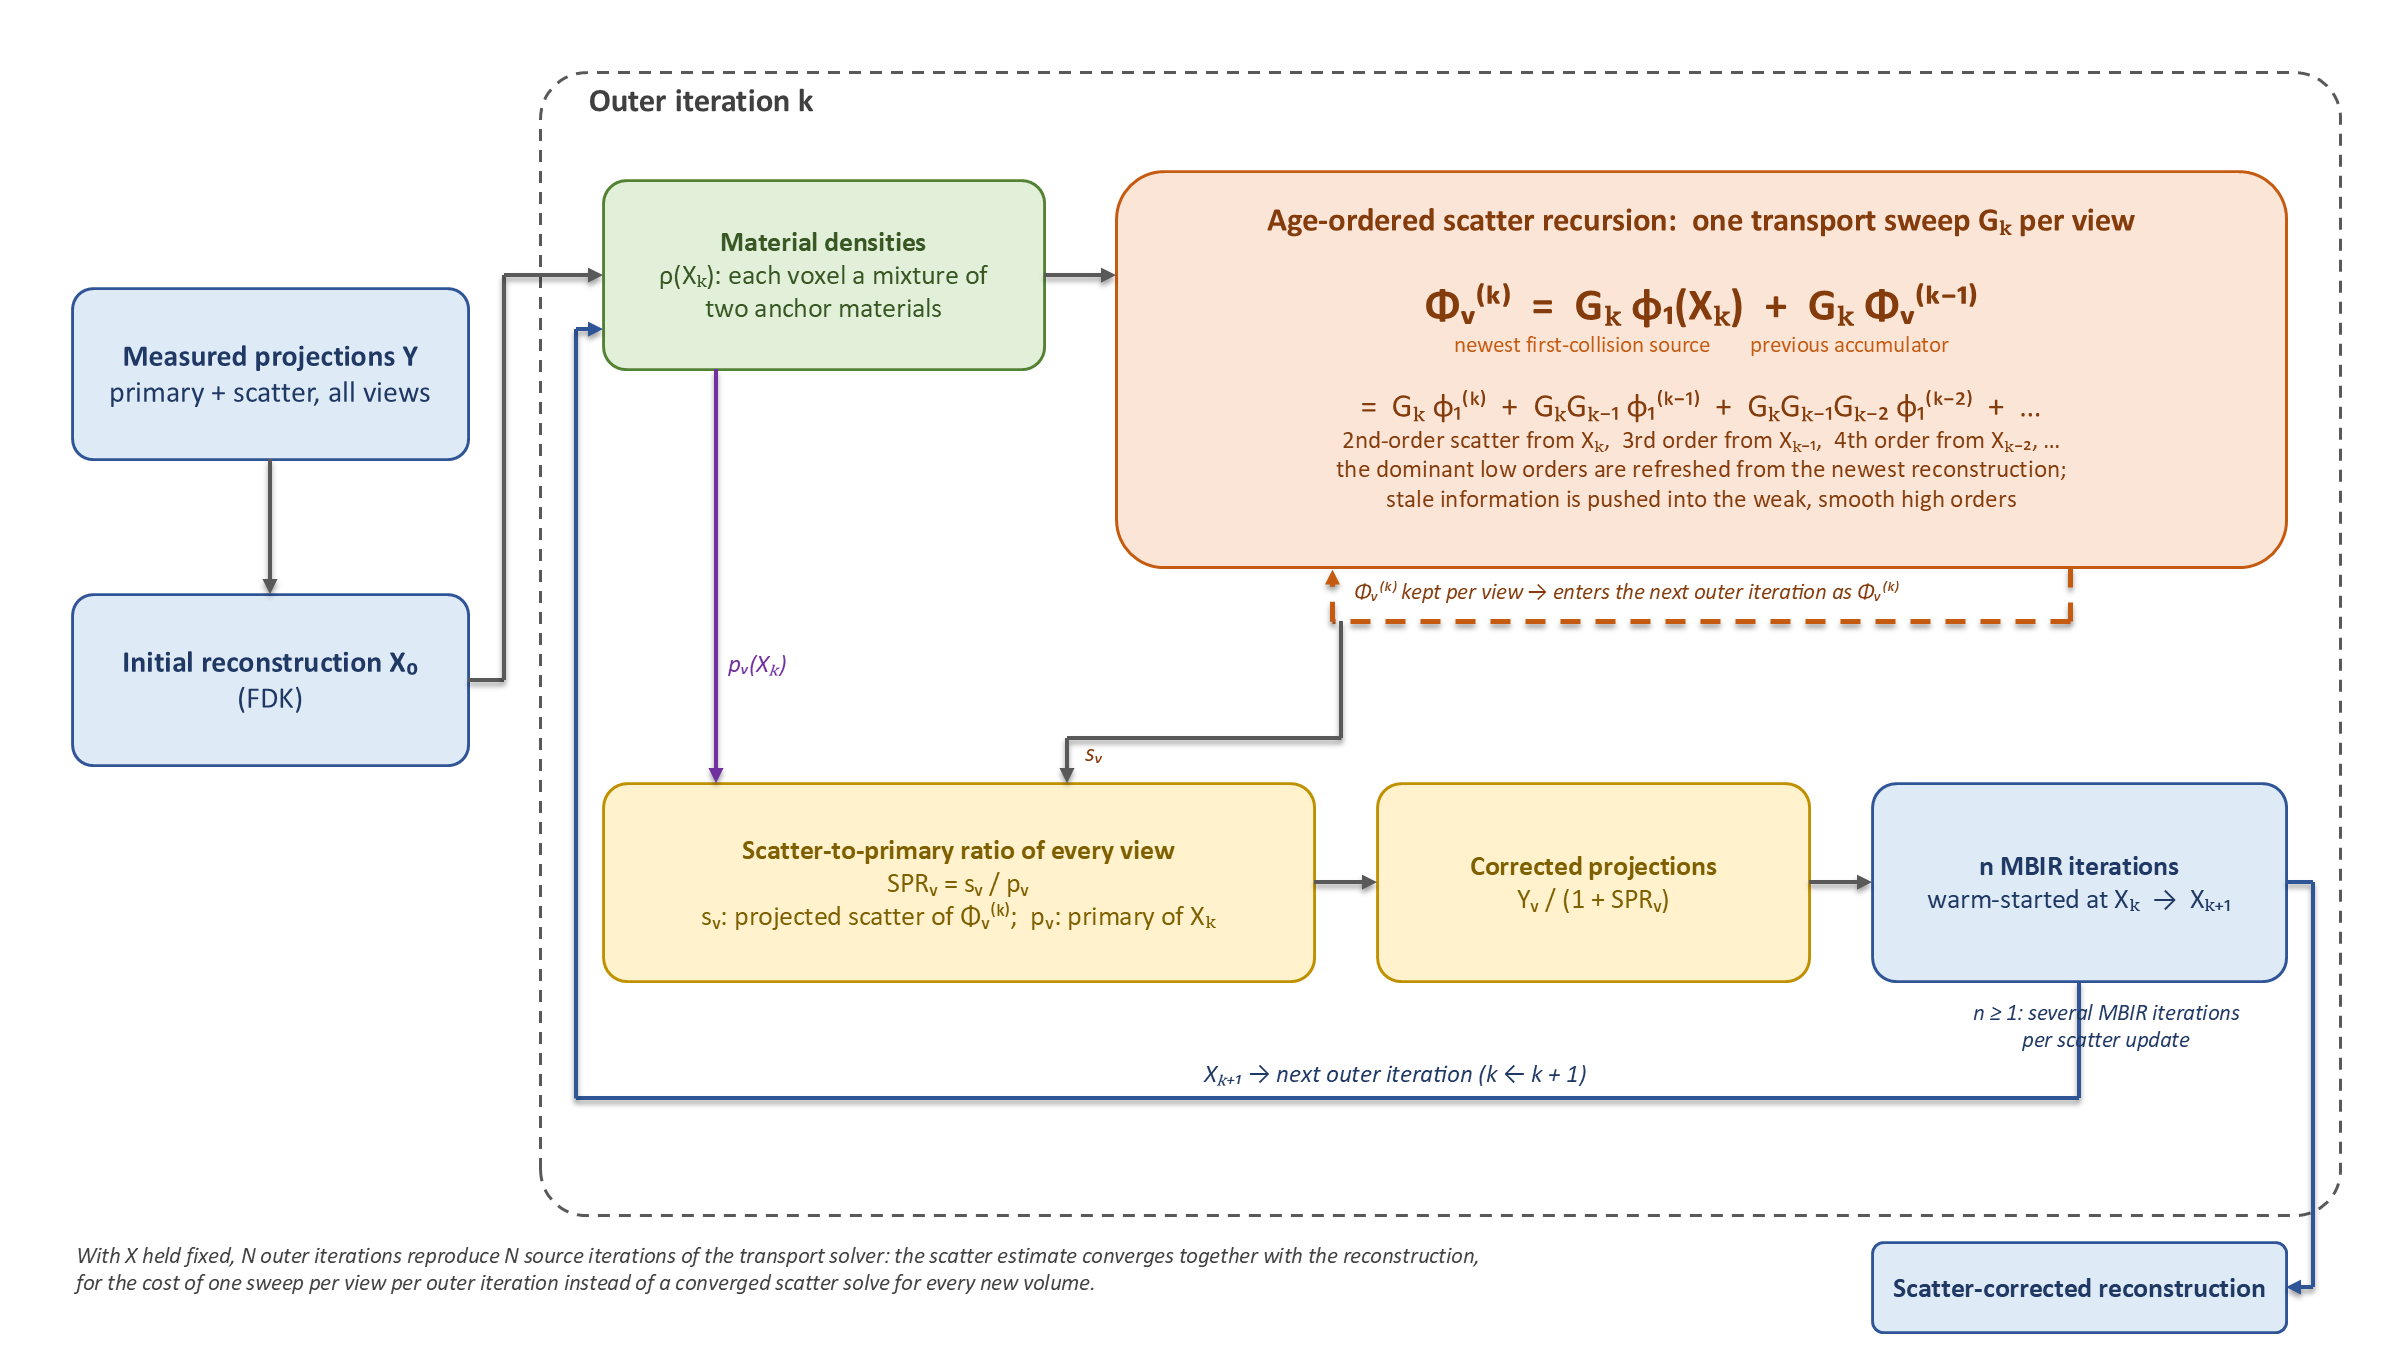
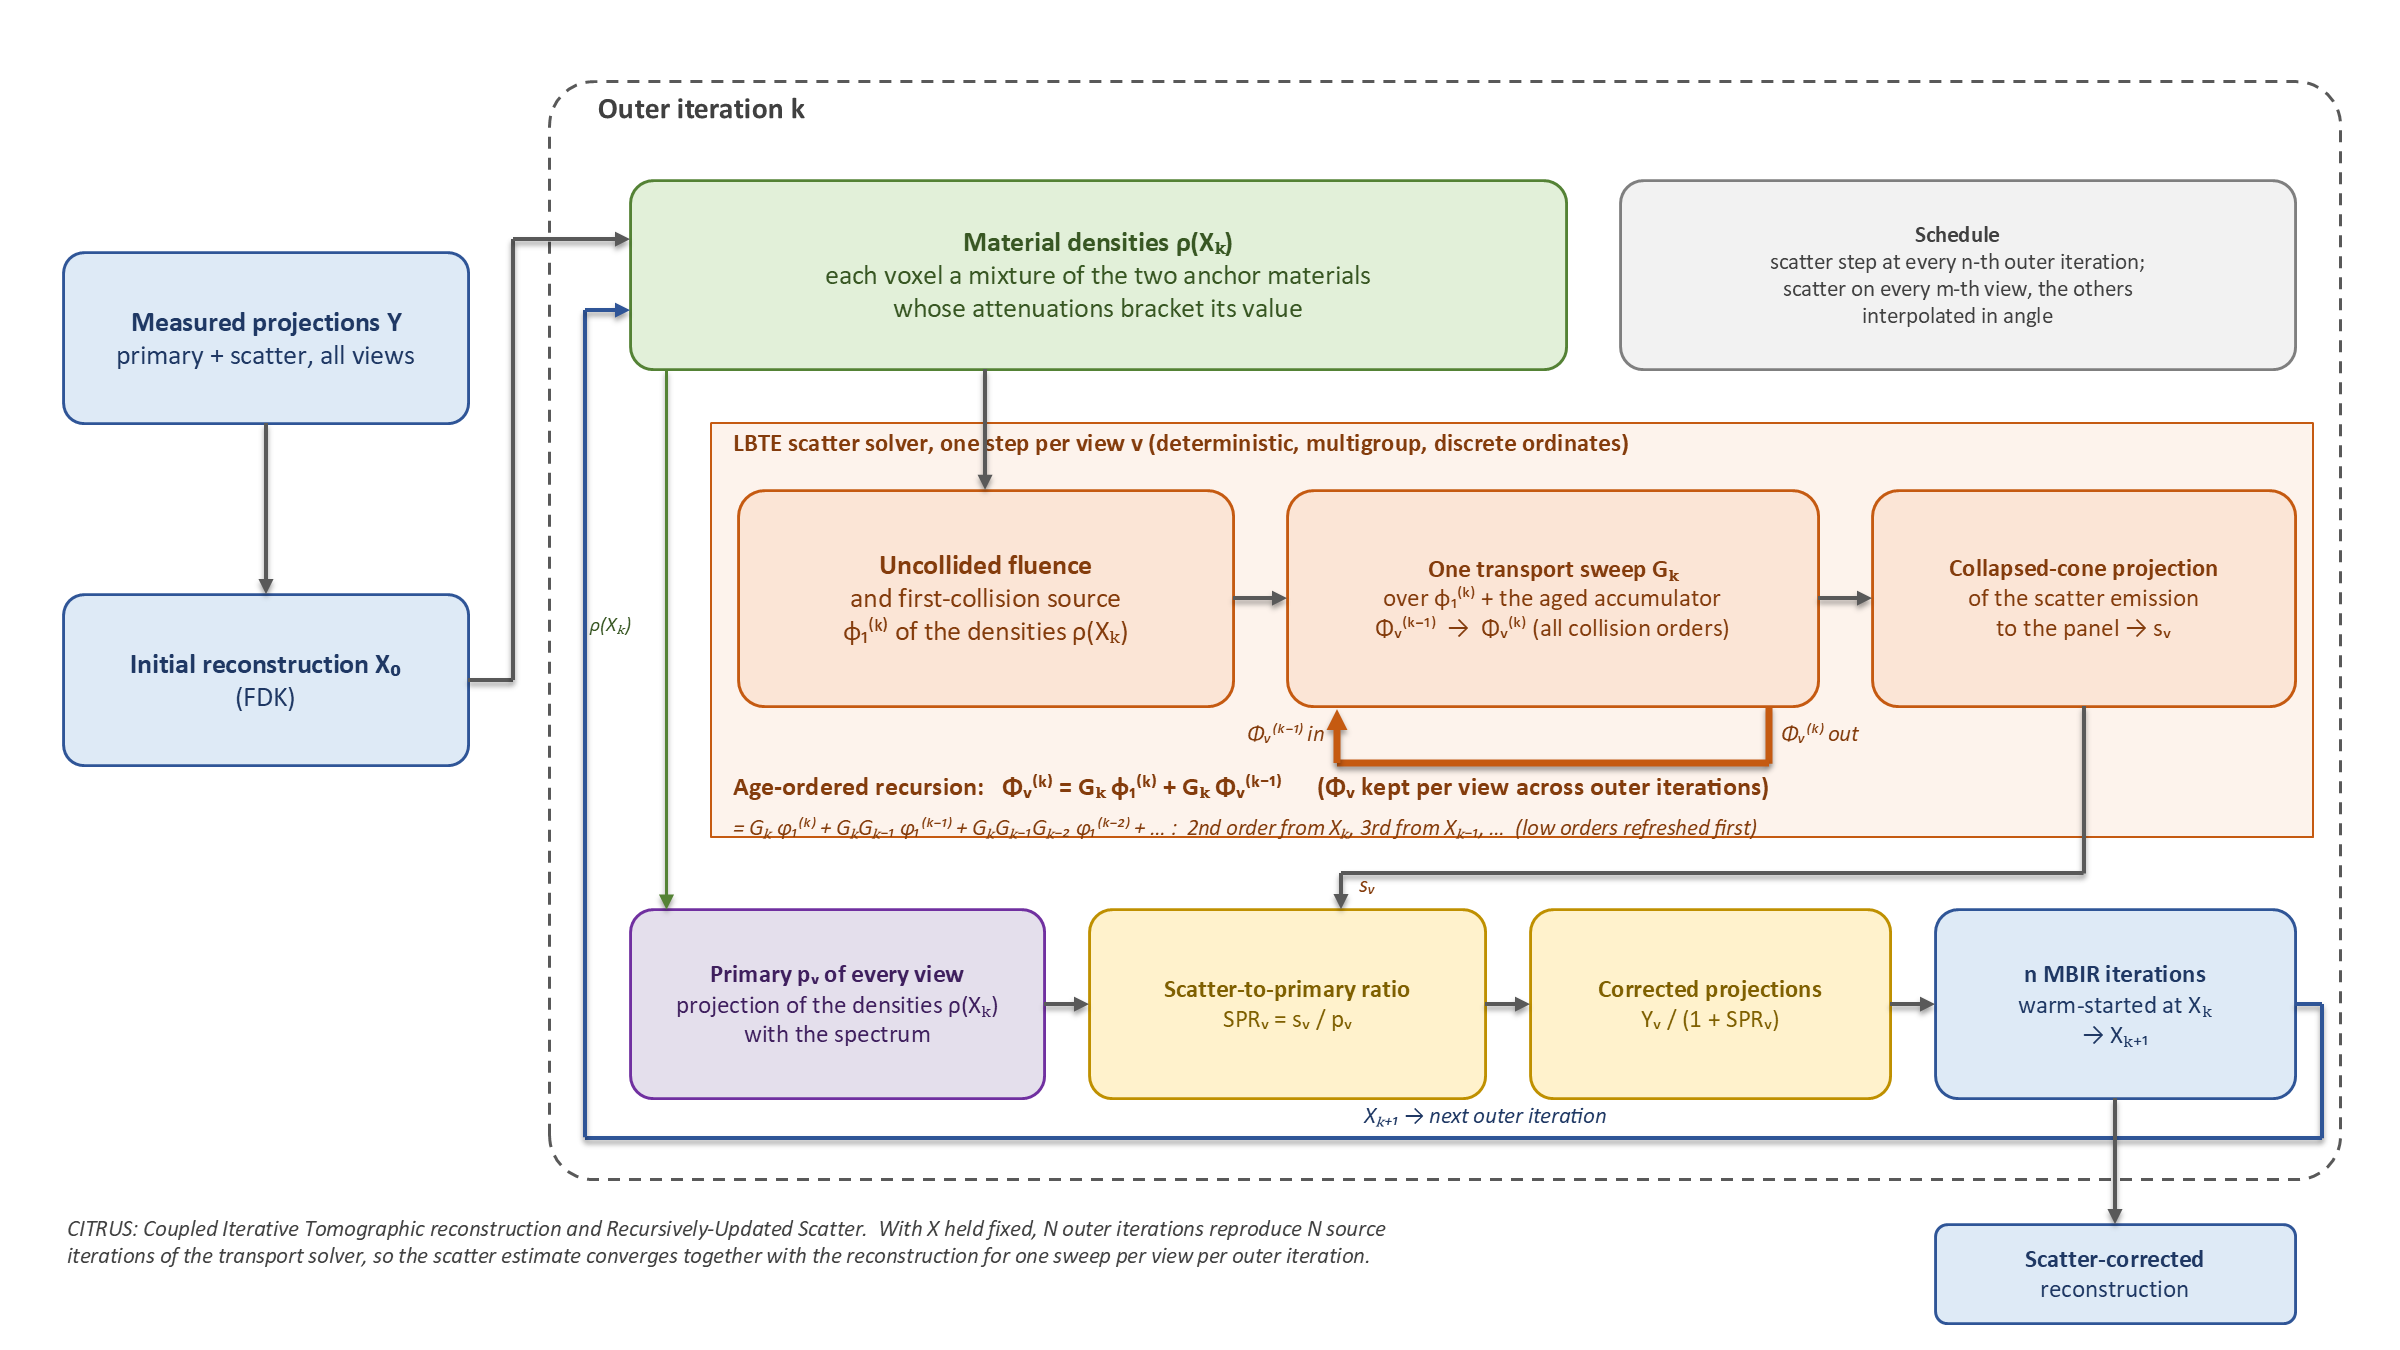
Docs: flowchart back to the solver-band layout with a prominent age-ordered recursion loop and equation; n MBIR iterations per outer iteration; grid box and Parker-weight detail removed

diff --git a/docs/figures/make_pipeline_flowchart.py b/docs/figures/make_pipeline_flowchart.py
@@ -146,96 +146,105 @@ def build() -> str:
     prs.slide_width = Inches(13.333)
     prs.slide_height = Inches(7.5)
     slide = prs.slides.add_slide(prs.slide_layouts[6])  # blank
+    L, R = 3.05, 13.0  # the loop container
 
     # ---- inputs (left column) -----------------------------------------------------------------------------------
-    y_data = add_box(slide, 0.4, 1.6, 2.2, 0.95,
-                     "Measured projections Y\nprimary + scatter, all views", "data", size=12)
-    x0 = add_box(slide, 0.4, 3.3, 2.2, 0.95, "Initial reconstruction X₀\n(FDK)", "data", size=12)
+    y_data = add_box(slide, 0.35, 1.4, 2.25, 0.95, "Measured projections Y\nprimary + scatter, all views", "data")
+    x0 = add_box(slide, 0.35, 3.3, 2.25, 0.95, "Initial reconstruction X₀\n(FDK)", "data")
     add_arrow(slide, cx(y_data), bottom(y_data), cx(x0), top(x0))
 
     # ---- outer loop container ------------------------------------------------------------------------------------
-    L, R = 3.0, 13.0
-    loop = add_box(slide, L, 0.4, R - L, 6.35, "", "note", shape=MSO_SHAPE.ROUNDED_RECTANGLE, dashed=True,
+    loop = add_box(slide, L, 0.45, R - L, 6.1, "", "note", shape=MSO_SHAPE.ROUNDED_RECTANGLE, dashed=True,
                    fill=False)
     loop.adjustments[0] = 0.04
     loop.line.color.rgb = rgb("595959")
-    add_label(slide, L + 0.25, 0.45, 9.0, 0.3, "Outer iteration k", color="404040", size=13, bold=True)
+    add_label(slide, L + 0.25, 0.5, 9.0, 0.3, "Outer iteration k", color="404040", size=12, bold=True)
 
-    # step 1: densities
-    dens = add_box(slide, 3.35, 1.0, 2.45, 1.05,
-                   "Material densities\nρ(Xₖ): each voxel a mixture of\ntwo anchor materials", "density", size=11)
+    # row A: material densities; schedule note
+    dens = add_box(slide, 3.5, 1.0, 5.2, 1.05,
+                   "Material densities ρ(Xₖ)\neach voxel a mixture of the two anchor materials\n"
+                   "whose attenuations bracket its value", "density")
+    add_box(slide, 9.0, 1.0, 3.75, 1.05,
+            "Schedule\nscatter step at every n-th outer iteration;\nscatter on every m-th view, the others\n"
+            "interpolated in angle", "note", size=9)
 
-    # step 2: the age-ordered recursion (the central element)
-    rec = add_box(slide, 6.2, 0.95, 6.5, 2.2, "", "scatter", size=12)
-    tf = rec.text_frame
-    tf.vertical_anchor = MSO_ANCHOR.TOP
-    tf.margin_top = Inches(0.08)
-    lines = [
-        ("Age-ordered scatter recursion:  one transport sweep Gₖ per view", 13, True, "843C0C"),
-        ("", 4, False, "843C0C"),
-        ("Φᵥ⁽ᵏ⁾  =  Gₖ φ₁(Xₖ)  +  Gₖ Φᵥ⁽ᵏ⁻¹⁾", 18, True, "843C0C"),
-        ("newest first-collision source        previous accumulator", 9, False, "C55A11"),
-        ("", 4, False, "843C0C"),
-        ("=  Gₖ φ₁⁽ᵏ⁾  +  GₖGₖ₋₁ φ₁⁽ᵏ⁻¹⁾  +  GₖGₖ₋₁Gₖ₋₂ φ₁⁽ᵏ⁻²⁾  +  …",
-         13, False, "843C0C"),
-        ("2nd-order scatter from Xₖ,  3rd order from Xₖ₋₁,  4th order from Xₖ₋₂, …", 10, False, "843C0C"),
-        ("the dominant low orders are refreshed from the newest reconstruction;", 10, False, "843C0C"),
-        ("stale information is pushed into the weak, smooth high orders", 10, False, "843C0C"),
-    ]
-    for i, (text, size, bold, color) in enumerate(lines):
-        p = tf.paragraphs[0] if i == 0 else tf.add_paragraph()
-        p.alignment = PP_ALIGN.CENTER
-        r = p.add_run()
-        r.text = text
-        r.font.name = FONT
-        r.font.size = Pt(size)
-        r.font.bold = bold
-        r.font.color.rgb = rgb(color)
-    add_arrow(slide, right(dens), cy(dens), left(rec), cy(dens))
+    # row B: the LBTE scatter solver, one step per view
+    band_left = 3.95
+    band = add_box(slide, band_left, 2.35, 12.85 - band_left, 2.3, "", "scatter", shape=MSO_SHAPE.RECTANGLE,
+                   fill=True)
+    band.fill.fore_color.rgb = rgb("FDF3EC")
+    band.line.color.rgb = rgb("C55A11")
+    band.line.width = Pt(0.75)
+    add_label(slide, band_left + 0.1, 2.38, 8.5, 0.28,
+              "LBTE scatter solver, one step per view v (deterministic, multigroup, discrete ordinates)",
+              color="843C0C", size=10, bold=True)
+    uncol = add_box(slide, 4.1, 2.72, 2.75, 1.2,
+                    "Uncollided fluence\nand first-collision source\nφ₁⁽ᵏ⁾ of the densities ρ(Xₖ)",
+                    "scatter")
+    sweep = add_box(slide, 7.15, 2.72, 2.95, 1.2,
+                    "One transport sweep Gₖ\nover φ₁⁽ᵏ⁾ + the aged accumulator\n"
+                    "Φᵥ⁽ᵏ⁻¹⁾  →  Φᵥ⁽ᵏ⁾ (all collision orders)",
+                    "scatter", size=10)
+    proj = add_box(slide, 10.4, 2.72, 2.35, 1.2,
+                   "Collapsed-cone projection\nof the scatter emission\nto the panel → sᵥ", "scatter", size=10)
+    add_arrow(slide, right(uncol), cy(uncol), left(sweep), cy(sweep))
+    add_arrow(slide, right(sweep), cy(sweep), left(proj), cy(proj))
 
-    # the accumulator carried across outer iterations: a loop around the recursion box
-    add_polyline_arrow(slide, [(right(rec) - 1.2, bottom(rec)), (right(rec) - 1.2, bottom(rec) + 0.3),
-                               (left(rec) + 1.2, bottom(rec) + 0.3), (left(rec) + 1.2, bottom(rec) + 0.01)],
-                       color="C55A11", width=2.0, dashed=True)
-    add_label(slide, left(rec) + 1.3, bottom(rec) + 0.06, 3.9, 0.2,
-              "Φᵥ⁽ᵏ⁾ kept per view → enters the next outer iteration as Φᵥ⁽ᵏ⁾",
-              color="843C0C", size=9, italic=True, align=PP_ALIGN.LEFT)
+    # THE AGE-ORDERED RECURSION: a thick loop under the sweep box with the update equation
+    add_polyline_arrow(slide, [(cx(sweep) + 1.2, bottom(sweep)), (cx(sweep) + 1.2, bottom(sweep) + 0.32),
+                               (cx(sweep) - 1.2, bottom(sweep) + 0.32), (cx(sweep) - 1.2, bottom(sweep) + 0.02)],
+                       color="C55A11", width=3.0)
+    add_label(slide, band_left + 0.1, bottom(sweep) + 0.36, 8.6, 0.3,
+              "Age-ordered recursion:   Φᵥ⁽ᵏ⁾ = Gₖ φ₁⁽ᵏ⁾ + Gₖ Φᵥ⁽ᵏ⁻¹⁾"
+              "      (Φᵥ kept per view across outer iterations)",
+              color="843C0C", size=10.5, bold=True)
+    add_label(slide, band_left + 0.1, bottom(sweep) + 0.6, 8.6, 0.2,
+              "= Gₖ φ₁⁽ᵏ⁾ + GₖGₖ₋₁ φ₁⁽ᵏ⁻¹⁾ + GₖGₖ₋₁Gₖ₋₂ φ₁⁽ᵏ⁻²⁾ + … :"
+              "  2nd order from Xₖ, 3rd from Xₖ₋₁, …  (low orders refreshed first)",
+              color="843C0C", size=9, italic=True)
+    add_label(slide, cx(sweep) + 1.25, bottom(sweep) + 0.08, 1.6, 0.2, "Φᵥ⁽ᵏ⁾ out",
+              color="843C0C", size=9, italic=True)
+    add_label(slide, cx(sweep) - 2.05, bottom(sweep) + 0.08, 0.8, 0.2, "Φᵥ⁽ᵏ⁻¹⁾ in",
+              color="843C0C", size=9, italic=True, align=PP_ALIGN.RIGHT)
 
-    # step 3: scatter and primary -> ratio -> corrected projections
-    spr = add_box(slide, 3.35, 4.35, 3.95, 1.1,
-                  "Scatter-to-primary ratio of every view\nSPRᵥ = sᵥ / pᵥ\nsᵥ: projected scatter of Φᵥ⁽ᵏ⁾;  pᵥ: primary of Xₖ",
-                  "correct", size=11)
-    corr = add_box(slide, 7.65, 4.35, 2.4, 1.1,
-                   "Corrected projections\nYᵥ / (1 + SPRᵥ)", "correct", size=11)
-    mbir = add_box(slide, 10.4, 4.35, 2.3, 1.1,
-                   "n MBIR iterations\nwarm-started at Xₖ  →  Xₖ₊₁", "mbir", size=11)
-    add_polyline_arrow(slide, [(cx(rec) - 2.0, bottom(rec) + 0.3), (cx(rec) - 2.0, 4.1), (cx(spr) + 0.6, 4.1),
-                               (cx(spr) + 0.6, top(spr))])
-    add_label(slide, cx(spr) + 0.68, 4.1, 0.5, 0.2, "sᵥ", color="843C0C", size=10, italic=True)
-    add_polyline_arrow(slide, [(cx(dens) - 0.6, bottom(dens)), (cx(dens) - 0.6, top(spr))], color="7030A0", width=1.5)
-    add_label(slide, cx(dens) - 0.55, 3.6, 0.9, 0.2, "pᵥ(Xₖ)", color="7030A0", size=10, italic=True)
-    add_arrow(slide, right(spr), cy(spr), left(corr), cy(corr))
+    # row C: primary, ratio, correction, MBIR
+    prim = add_box(slide, 3.5, 5.05, 2.3, 1.05,
+                   "Primary pᵥ of every view\nprojection of the densities ρ(Xₖ)\nwith the spectrum", "primary",
+                   size=10)
+    ratio = add_box(slide, 6.05, 5.05, 2.2, 1.05,
+                    "Scatter-to-primary ratio\nSPRᵥ = sᵥ / pᵥ", "correct", size=10)
+    corr = add_box(slide, 8.5, 5.05, 2.0, 1.05, "Corrected projections\nYᵥ / (1 + SPRᵥ)", "correct", size=10)
+    mbir = add_box(slide, 10.75, 5.05, 2.0, 1.05, "n MBIR iterations\nwarm-started at Xₖ\n→ Xₖ₊₁",
+                   "mbir", size=10)
+    add_arrow(slide, right(prim), cy(prim), left(ratio), cy(ratio))
+    add_arrow(slide, right(ratio), cy(ratio), left(corr), cy(corr))
     add_arrow(slide, right(corr), cy(corr), left(mbir), cy(mbir))
 
+    # vertical flow: densities -> uncollided, densities -> primary (left margin), projection -> ratio
+    add_arrow(slide, cx(uncol), bottom(dens), cx(uncol), top(uncol))
+    add_polyline_arrow(slide, [(3.7, bottom(dens)), (3.7, top(prim))], color="548235", width=1.25)
+    add_label(slide, 3.26, 3.4, 0.5, 0.2, "ρ(Xₖ)", color="385723", size=8, italic=True)
+    add_polyline_arrow(slide, [(cx(proj), bottom(proj)), (cx(proj), 4.85), (cx(ratio) + 0.3, 4.85),
+                               (cx(ratio) + 0.3, top(ratio))])
+    add_label(slide, cx(ratio) + 0.38, 4.84, 0.6, 0.2, "sᵥ", color="843C0C", size=9, italic=True)
+
     # X0 into the loop; X_{k+1} back to the densities
-    add_polyline_arrow(slide, [(right(x0), cy(x0)), (2.8, cy(x0)), (2.8, cy(dens)), (left(dens), cy(dens))])
-    add_polyline_arrow(slide, [(cx(mbir), bottom(mbir)), (cx(mbir), 6.1), (3.2, 6.1), (3.2, cy(dens) + 0.3),
-                               (left(dens), cy(dens) + 0.3)], color="2F5597", width=1.5)
-    add_label(slide, 5.5, 5.88, 4.5, 0.2, "Xₖ₊₁ → next outer iteration (k ← k + 1)",
-              color="1F3864", size=10, italic=True, align=PP_ALIGN.CENTER)
-    add_label(slide, 10.55, 5.55, 2.3, 0.3, "n ≥ 1: several MBIR iterations\nper scatter update", color="1F3864",
-              size=9, italic=True, align=PP_ALIGN.CENTER)
+    add_polyline_arrow(slide, [(right(x0), cy(x0)), (2.85, cy(x0)), (2.85, cy(dens) - 0.2),
+                               (left(dens), cy(dens) - 0.2)])
+    add_polyline_arrow(slide, [(right(mbir), cy(mbir)), (12.9, cy(mbir)), (12.9, 6.32), (3.25, 6.32),
+                               (3.25, cy(dens) + 0.2), (left(dens), cy(dens) + 0.2)], color="2F5597", width=1.5)
+    add_label(slide, 6.5, 6.12, 3.5, 0.2, "Xₖ₊₁ → next outer iteration", color="1F3864", size=9,
+              italic=True, align=PP_ALIGN.CENTER)
 
     # output
-    out = add_box(slide, 10.4, 6.9, 2.3, 0.5, "Scatter-corrected reconstruction", "data", size=11)
-    add_polyline_arrow(slide, [(right(mbir), cy(mbir)), (12.85, cy(mbir)), (12.85, cy(out)), (right(out), cy(out))],
-                       color="2F5597", width=1.5)
+    out = add_box(slide, 10.75, 6.8, 2.0, 0.55, "Scatter-corrected\nreconstruction", "data", size=10)
+    add_arrow(slide, cx(mbir), bottom(mbir), cx(out), top(out))
 
     # caption
-    add_label(slide, 0.4, 6.9, 9.6, 0.5,
-              "With X held fixed, N outer iterations reproduce N source iterations of the transport solver: the scatter "
-              "estimate converges together with the reconstruction,\nfor the cost of one sweep per view per outer "
-              "iteration instead of a converged scatter solve for every new volume.",
+    add_label(slide, 0.35, 6.75, 9.5, 0.5,
+              "CITRUS: Coupled Iterative Tomographic reconstruction and Recursively-Updated Scatter.  With X held fixed, "
+              "N outer iterations reproduce N source\niterations of the transport solver, so the scatter estimate "
+              "converges together with the reconstruction for one sweep per view per outer iteration.",
               color="404040", size=9, italic=True)
 
     prs.save(PPTX)
